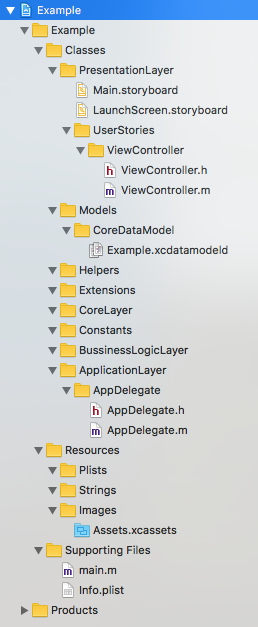
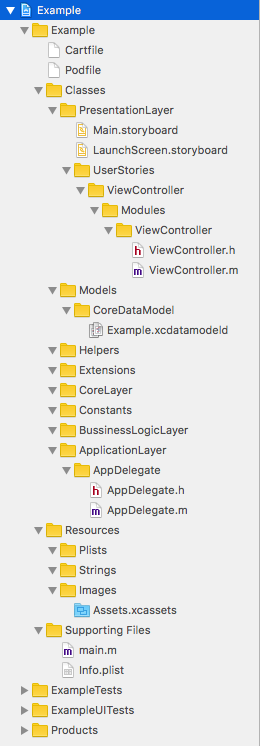
Images was added readme.md was changed

diff --git a/readme.md b/readme.md
@@ -1,13 +1,20 @@
-# Xcode template
+# Xcode project template
 
-### Template with convinient structure which was borrowed from [rambler-it-ios project](https://github.com/rambler-digital-solutions/rambler-it-ios)
+### Project template with convinient structure which was borrowed from [rambler-it-ios project](https://github.com/rambler-digital-solutions/rambler-it-ios)
+
+#### Project settings window:
+![Project settings window](./images/settingsExample.png)
 
 
 #### Swift project structure:
 ![Swift project example](./images/swiftExample.png)
+Tests structure:
+![Swift tests structure example](./images/swiftTestsExample.png)
 
 #### Objective-C project structure:
-![Swift project example](./images/objcExample.png)
+![Objc project example](./images/objcExample.png)
+Tests structure:
+![Objc tests structure example](./images/objcTestsExample.png)
 
 ### Installation:
 1. Create empty folder `__empty` in `Templates` folder
@@ -15,7 +22,6 @@
 
 ### TO-DO:
 
-* Add configuration of `Cartfile` file
 * Put test file into correct folder
 * Put ui test file into correct folder
 * Add option in template adding `Rambafile` file
